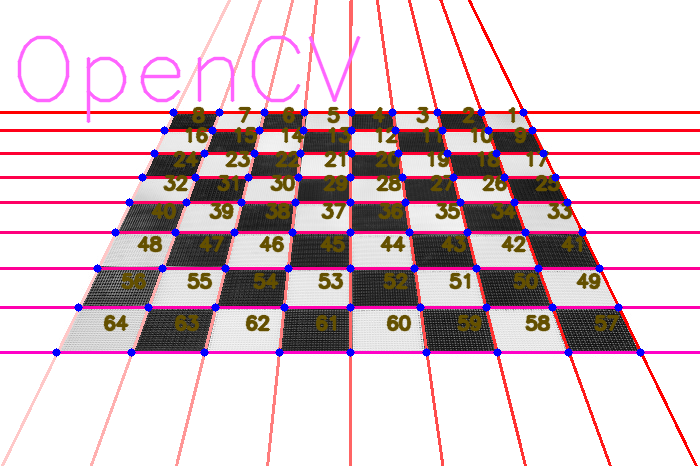
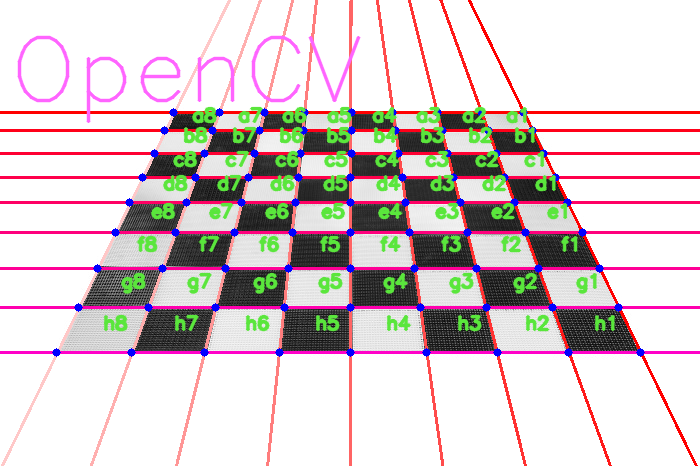
proper squarenames added

diff --git a/naming_squares.py b/naming_squares.py
@@ -181,14 +181,16 @@ cv2.putText(lineimg,'OpenCV',(10,100), font, 3,(255,100,255),2,cv2.LINE_AA)
 
 letters=['a','b','c','d','e','f','g','h']
 numbers=['1','2','3','4','5','6','7','8']
+square_names=list(itertools.product(letters,numbers))
 
-for i in range(1,72):
-    if i%9!=0:
+#print (square_names)
+for i in range(0,72):
+    if (i-8)%9!=0 :
         m_i=i-int(i/9)
-        coa=centre_of_4_points(points[i-1],points[i],points[i+8],points[i+9])
-        cv2.circle(lineimg,(points[m_i-1][0],points[m_i-1][1]), 4, (255,0,0), -1)
-        cv2.putText(lineimg,str(m_i),(coa[0],coa[1]), font, 0.61,(60,230,90),2,cv2.LINE_AA)
+        coa=centre_of_4_points(points[i],points[i+1],points[i+9],points[i+10])
 
+        cv2.putText(lineimg,str(square_names[m_i][0]+square_names[m_i][1]),(coa[0],coa[1]), font, 0.61,(60,230,90),2,cv2.LINE_AA)
+        print (i,m_i, str(square_names[m_i][0]+square_names[m_i][1]))
 
 
 cv2.imshow('after_intersect_search',lineimg)

diff --git a/try.py b/try.py
@@ -37,6 +37,6 @@ for i in range(len(a)):
     if (a[i][0]) < 20: a[i][0]=a[i][0]+30
 
 
-print (a)
+print (str('a'+'b'))
 
 
